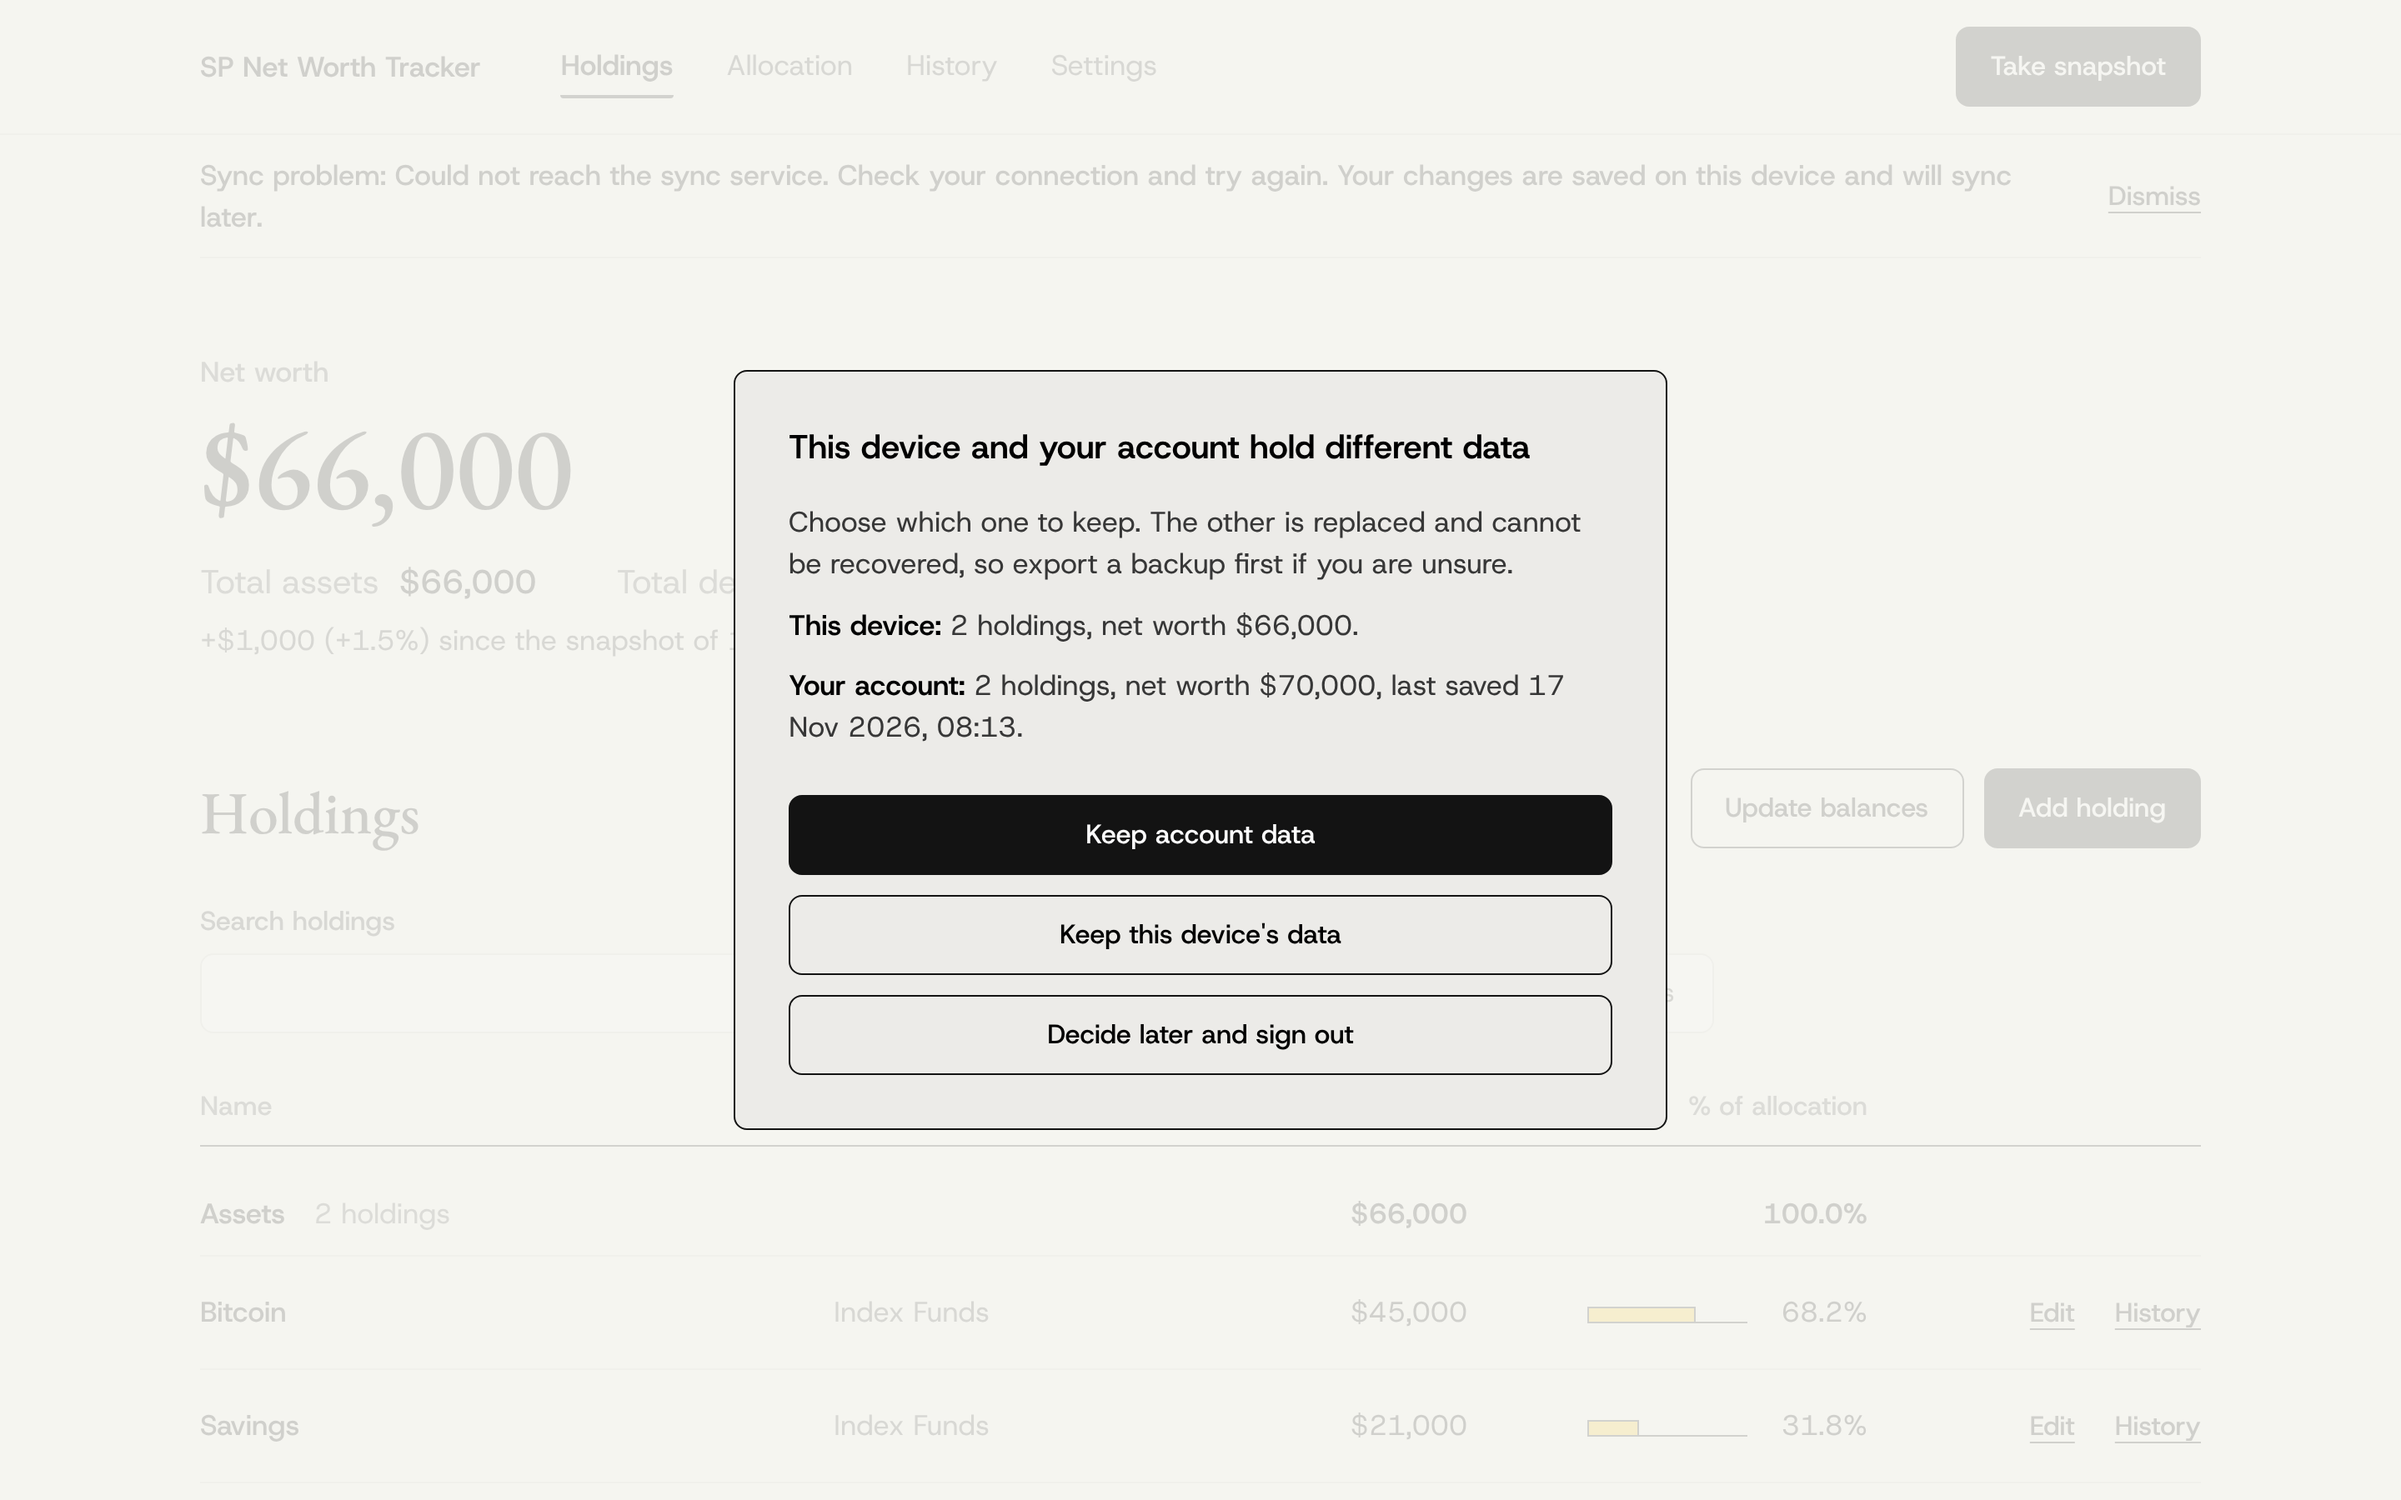
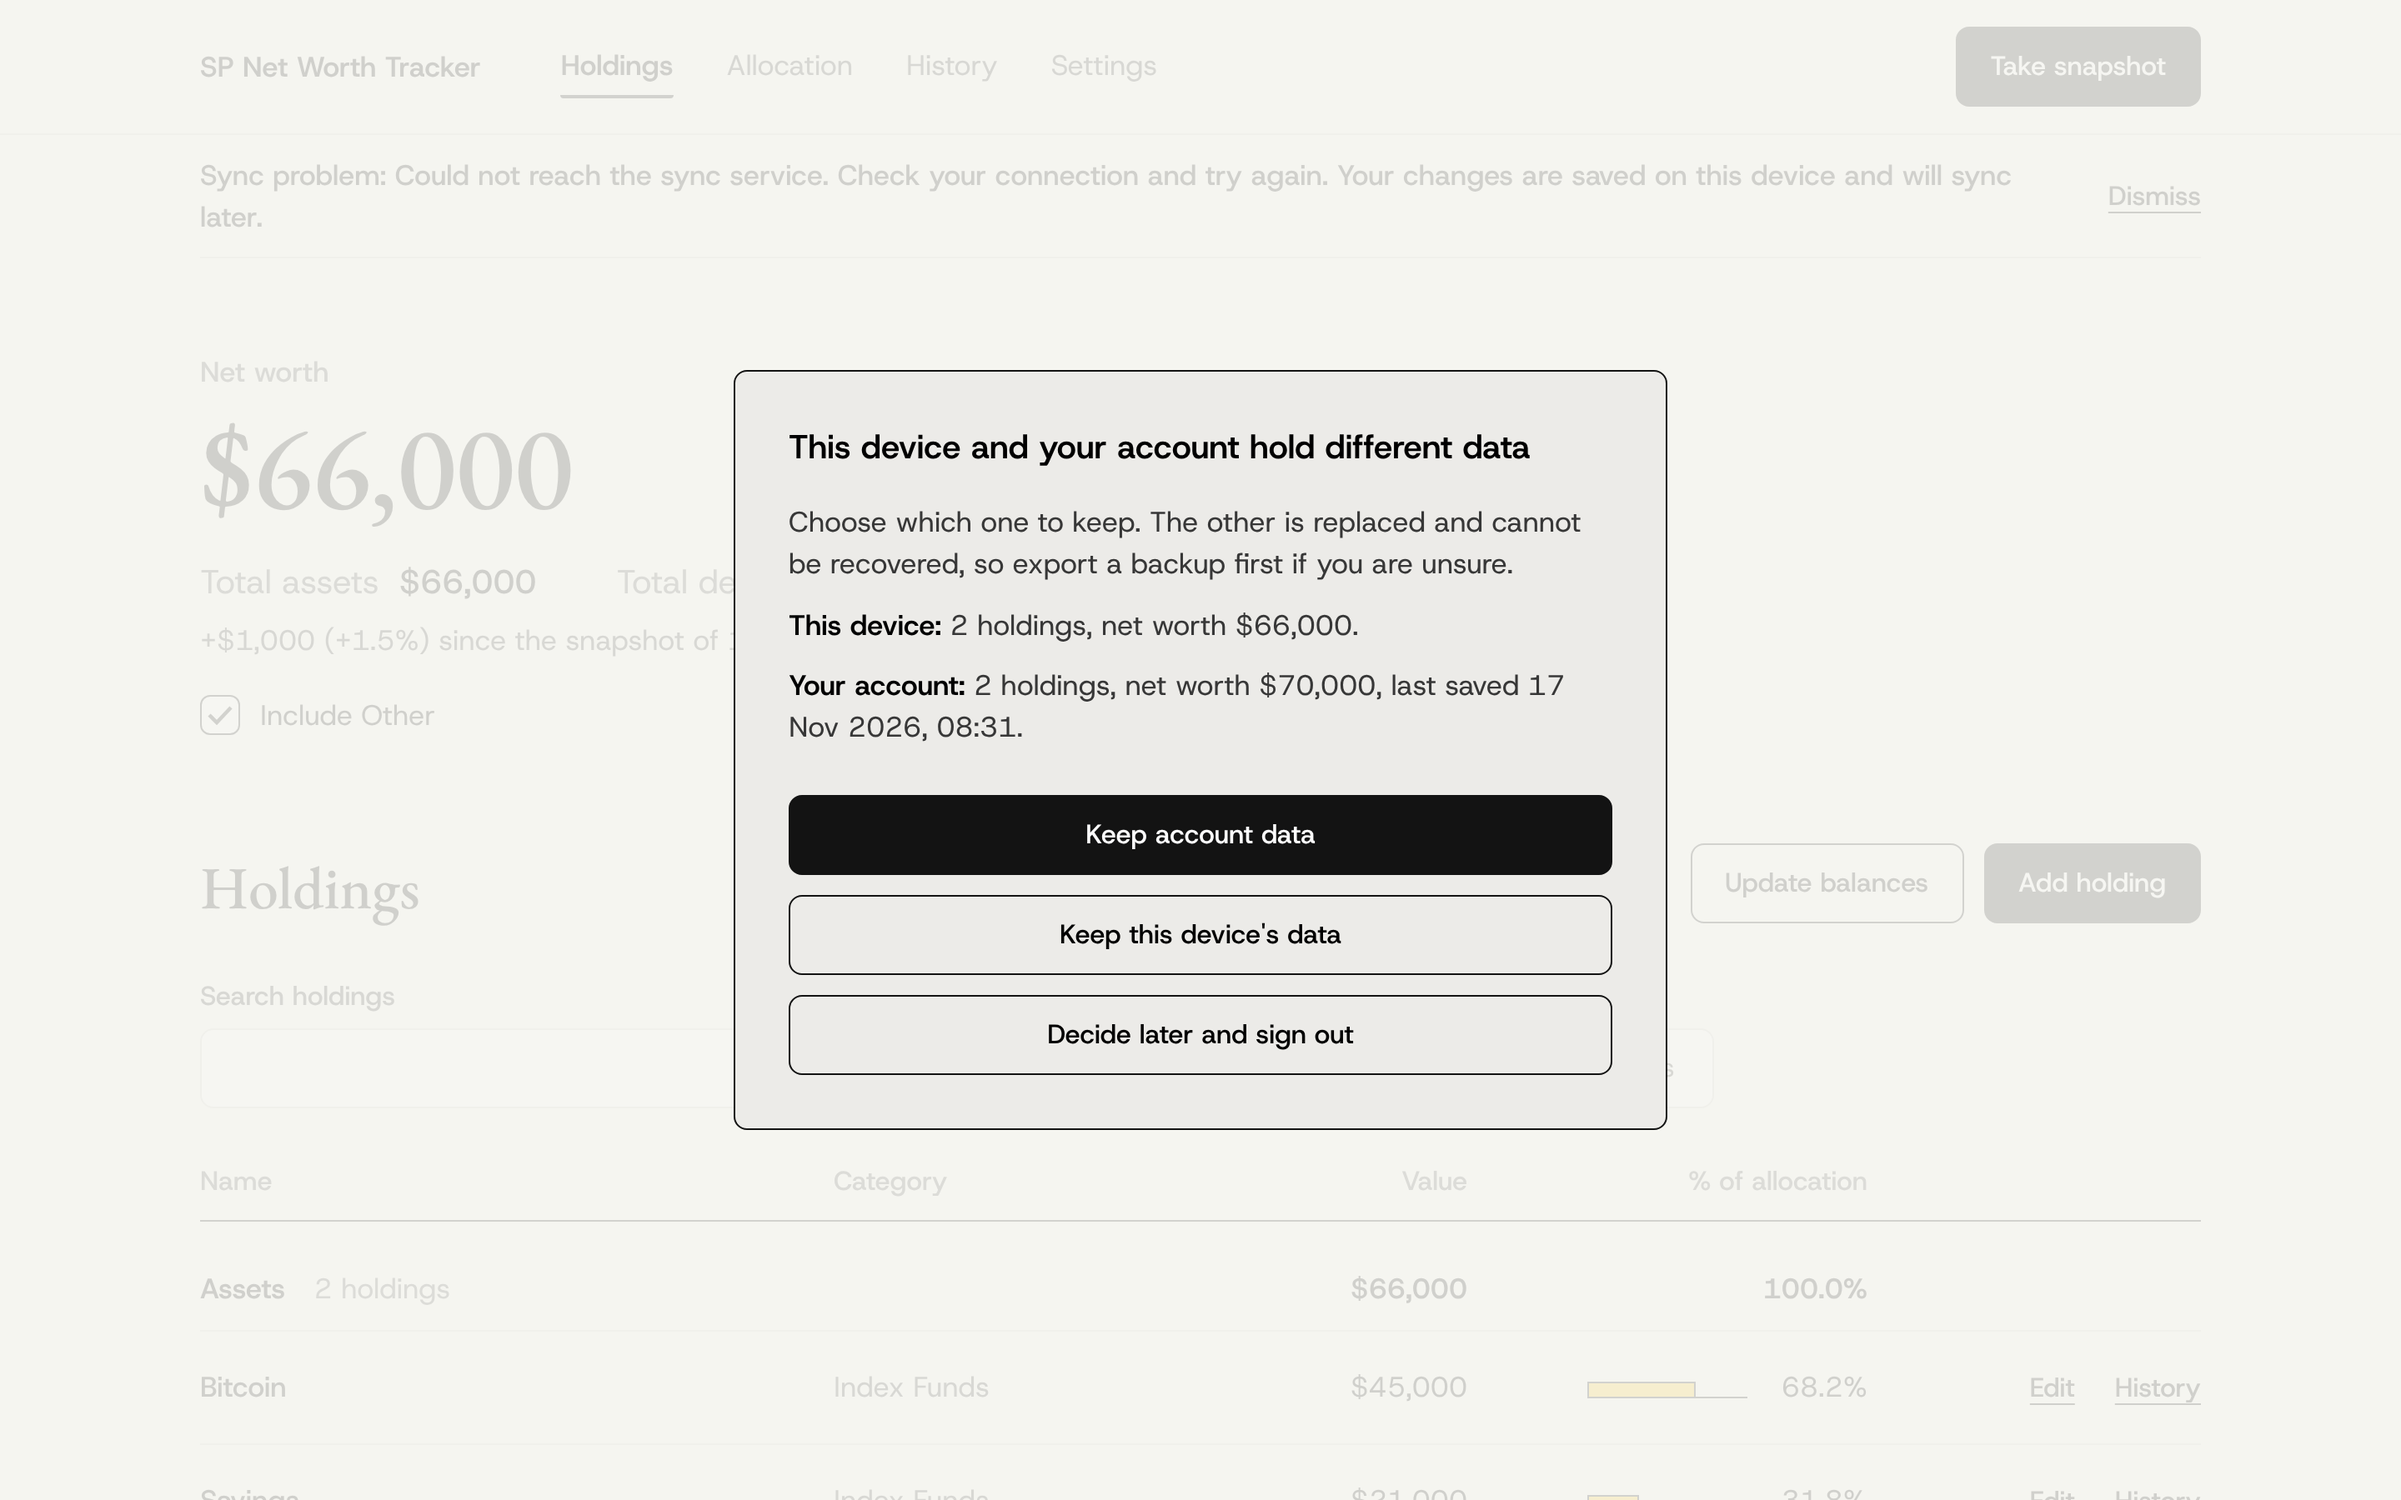
Show net worth with or without categories outside the allocation
An Include toggle under the net worth figure leaves out categories set
outside the allocation, such as retirement, and hides their holdings.
Debts always count in full. The choice is remembered per device.

Claude-Session: https://claude.ai/code/session_01MGnHEpiTRV9QRoaRJHrsMb

diff --git a/src/pages/Dashboard.tsx b/src/pages/Dashboard.tsx
@@ -1,11 +1,34 @@
 import { useState } from 'react';
-import { allocation, allocationBase, totals } from '../lib/calc';
+import { allocation, allocationBase, inAllocation, round2, totals } from '../lib/calc';
 import { fmtDate, pct } from '../lib/format';
 import { useStore } from '../state';
 import { AllocationTable } from '../components/AllocationTable';
 import { PortfolioChart, useRange } from '../components/charts';
 import { HoldingsSection } from '../components/HoldingsSection';
-import { Confirm } from '../components/ui';
+import { STORAGE_KEY } from '../lib/store';
+import { Checkbox, Confirm } from '../components/ui';
+
+const VIEW_KEY = `${STORAGE_KEY}.includeOutside`;
+
+/** Per-device preference: whether the summary includes categories outside the allocation. */
+function useIncludeOutside(): [boolean, (v: boolean) => void] {
+  const [value, setValue] = useState(() => {
+    try {
+      return localStorage.getItem(VIEW_KEY) !== 'false';
+    } catch {
+      return true;
+    }
+  });
+  const set = (v: boolean) => {
+    setValue(v);
+    try {
+      localStorage.setItem(VIEW_KEY, String(v));
+    } catch {
+      /* the choice simply resets next visit */
+    }
+  };
+  return [value, set];
+}
 
 export function ExampleNote() {
   const { data, dispatch, notify } = useStore();
@@ -40,12 +63,19 @@ export function ExampleNote() {
 export function Dashboard({ onSnapshot }: { onSnapshot: () => void }) {
   const { data, fmt } = useStore();
   const [range, setRange] = useRange();
-  const t = totals(data.holdings);
+  const full = totals(data.holdings);
+  const { base, outside, counts, anyExcluded } = allocationBase(data);
+  const [includeOutside, setIncludeOutside] = useIncludeOutside();
+  const excluding = anyExcluded && !includeOutside;
+  // Debts always count in full: they are not tied to any category.
+  const t = excluding ? { totalAssets: base, totalDebts: full.totalDebts, netWorth: round2(base - full.totalDebts) } : full;
+  const outsideNames = data.categories.filter((c) => !inAllocation(c)).map((c) => c.name);
+  const namesText = outsideNames.length > 1 ? `${outsideNames.slice(0, -1).join(', ')} and ${outsideNames[outsideNames.length - 1]}` : outsideNames[0];
+
   const last = data.snapshots[data.snapshots.length - 1];
   const change = last ? t.netWorth - last.netWorth : 0;
   const changePct = last && last.netWorth !== 0 ? (change / Math.abs(last.netWorth)) * 100 : null;
 
-  const { base, counts, anyExcluded } = allocationBase(data);
   const assets = data.holdings.filter(counts).sort((a, b) => b.value - a.value);
   const topHolding = assets[0];
   const topCategory = allocation(data).sort((a, b) => b.value - a.value)[0];
@@ -54,21 +84,28 @@ export function Dashboard({ onSnapshot }: { onSnapshot: () => void }) {
     <>
       <ExampleNote />
       <section className="summary" aria-labelledby="nw-label">
-        <h1 id="nw-label" className="eyebrow">Net worth</h1>
+        <h1 id="nw-label" className="eyebrow">{excluding ? `Net worth without ${namesText}` : 'Net worth'}</h1>
         <p className="net-worth">{fmt.money(t.netWorth)}</p>
         <dl className="totals">
           <div><dt>Total assets</dt><dd>{fmt.money(t.totalAssets)}</dd></div>
           <div><dt>Total debts</dt><dd>{fmt.money(t.totalDebts)}</dd></div>
         </dl>
         <p className="since">
-          {last
+          {excluding
+            ? `Leaves out ${fmt.money(outside)} in ${namesText}. Debts are counted in full.`
+            : last
             ? `${fmt.signedMoney(change)}${changePct === null ? '' : ` (${change < 0 ? '−' : '+'}${Math.abs(changePct).toFixed(1)}%)`} since the snapshot of ${fmtDate(last.takenAt)}`
             : 'No snapshots saved yet. Take one to mark this moment.'}
         </p>
+        {anyExcluded && (
+          <div className="summary-toggle">
+            <Checkbox label={`Include ${namesText}`} checked={includeOutside} onChange={setIncludeOutside} />
+          </div>
+        )}
         <button className="btn btn-primary summary-snapshot" type="button" onClick={onSnapshot}>Take snapshot</button>
       </section>
 
-      <HoldingsSection />
+      <HoldingsSection hideOutside={excluding} />
 
       <section className="section" aria-labelledby="growth-heading">
         <div className="section-head">

diff --git a/src/components/HoldingsSection.tsx b/src/components/HoldingsSection.tsx
@@ -12,7 +12,7 @@ type Show = 'all' | 'asset' | 'debt';
 const ALL = '__all__';
 const NONE = '__none__';
 
-export function HoldingsSection() {
+export function HoldingsSection({ hideOutside = false }: { hideOutside?: boolean }) {
   const { data, fmt } = useStore();
   const [search, setSearch] = useState('');
   const [category, setCategory] = useState(ALL);
@@ -27,6 +27,7 @@ export function HoldingsSection() {
   const q = search.trim().toLowerCase();
   const matches = (h: Holding) => {
     if (show !== 'all' && h.kind !== show) return false;
+    if (hideOutside && h.kind === 'asset' && !counts(h)) return false;
     if (category !== ALL) {
       if (h.kind !== 'asset') return false;
       const id = h.categoryId && catName.has(h.categoryId) ? h.categoryId : NONE;

diff --git a/src/styles.css b/src/styles.css
@@ -94,6 +94,7 @@ a { color: inherit; }
 .totals dt { color: var(--text-3); }
 .totals dd { font-weight: 500; }
 .since { margin-top: 8px; color: var(--text-2); }
+.summary-toggle { margin-top: 20px; }
 
 /* Sections */
 .section { margin-top: var(--gap-section); }

diff --git a/README.md b/README.md
@@ -38,7 +38,7 @@ npm run preview
 ## How the numbers work
 
 - Net worth = total assets minus total debts.
-- Allocation percentages use total assets before debts, minus any category set outside the allocation (untick **Count in allocation** for things like a retirement account, a car or a rental deposit). Those still count fully in total assets and net worth. Example: assets of 100,000 and debts of 12,500 give a net worth of 87,500, and an asset worth 30,000 is 30.0% of assets.
+- Allocation percentages use total assets before debts, minus any category set outside the allocation (untick **Count in allocation** for things like a retirement account, a car or a rental deposit). Those still count fully in total assets and net worth. Untick **Include ...** under the net worth figure to see net worth without them; debts always count in full. The choice is remembered per device. Example: assets of 100,000 and debts of 12,500 give a net worth of 87,500, and an asset worth 30,000 is 30.0% of assets.
 - Difference to target = actual % minus target %. Amount vs target = category value minus (target % x total assets).
 - Amounts are added in whole cents, so totals never drift.
 - Changing the currency changes the label only. No amounts are converted.
